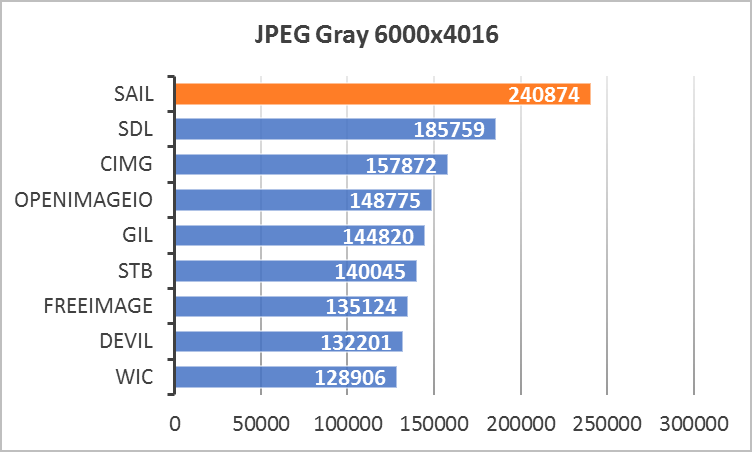
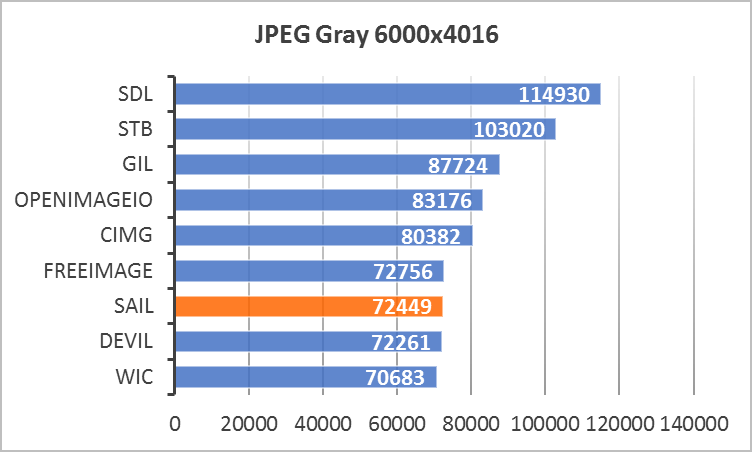
SAIL: Update benchmarks

diff --git a/BENCHMARKS.md b/BENCHMARKS.md
@@ -16,11 +16,11 @@ Table of Contents
 | **Compiler**                            | MSVC 2019 x64        |
 | **Libraries Under Test (LUT)**          | [Boost.GIL](https://www.boost.org/doc/libs/1_68_0/libs/gil/doc/html/index.html), [CImg](https://github.com/dtschump/CImg), [DevIL](http://openil.sourceforge.net), [FreeImage](https://freeimage.sourceforge.io), [OpenImageIO](https://github.com/OpenImageIO/oiio.git), [SAIL](https://github.com/smoked-herring/sail), [SDL_Image](https://www.libsdl.org/projects/SDL_image), [stb_image](https://github.com/nothings/stb), [WIC](https://docs.microsoft.com/en-us/windows/win32/wic/-wic-about-windows-imaging-codec) |
 | **LUT Installation Mode (except SAIL)** | vcpkg                |
-| **SAIL Installation Mode**              | standalone bundle    |
+| **SAIL Installation Mode**              | vcpkg                |
 | **Benchmarks**                          | [sail-benchmark](https://github.com/smoked-herring/sail-benchmark) |
 | **Measured Time**                       | Real (wall clock)    |
 | **Measurement Units**                   | Microseconds         |
-| **Output Pixels**                       | RGBA8888 or similar  |
+| **Output Pixels**                       | Default              |
 | **Hardware**                            | Lenovo Thinkpad W540 |
 | **CPU**                                 | Intel Core i7-4800MQ |
 | **Power Cable**                         | Connected            |

diff --git a/README.md b/README.md
@@ -90,10 +90,10 @@ See the full list [here](FORMATS.md). Work to add more image formats is ongoing.
 ## Benchmarks
 
 <p align="center">
-  <a href="BENCHMARKS.md"><img src=".github/benchmarks/PNG-RGBA-6000x4256.png?raw=true" alt="Benchmark" width="500px"/></a>
+  <a href="BENCHMARKS.md"><img src=".github/benchmarks/JPEG-YCbCr-6000x4016.png?raw=true" alt="Benchmark" width="500px"/></a>
 </p>
 
-Time to load and output RGBA8888 (or similar) pixels was measured. See [BENCHMARKS](BENCHMARKS.md).
+Time to load and output default pixels (without explicit conversion) was measured. See [BENCHMARKS](BENCHMARKS.md).
 
 ## Preferred installation method
 
